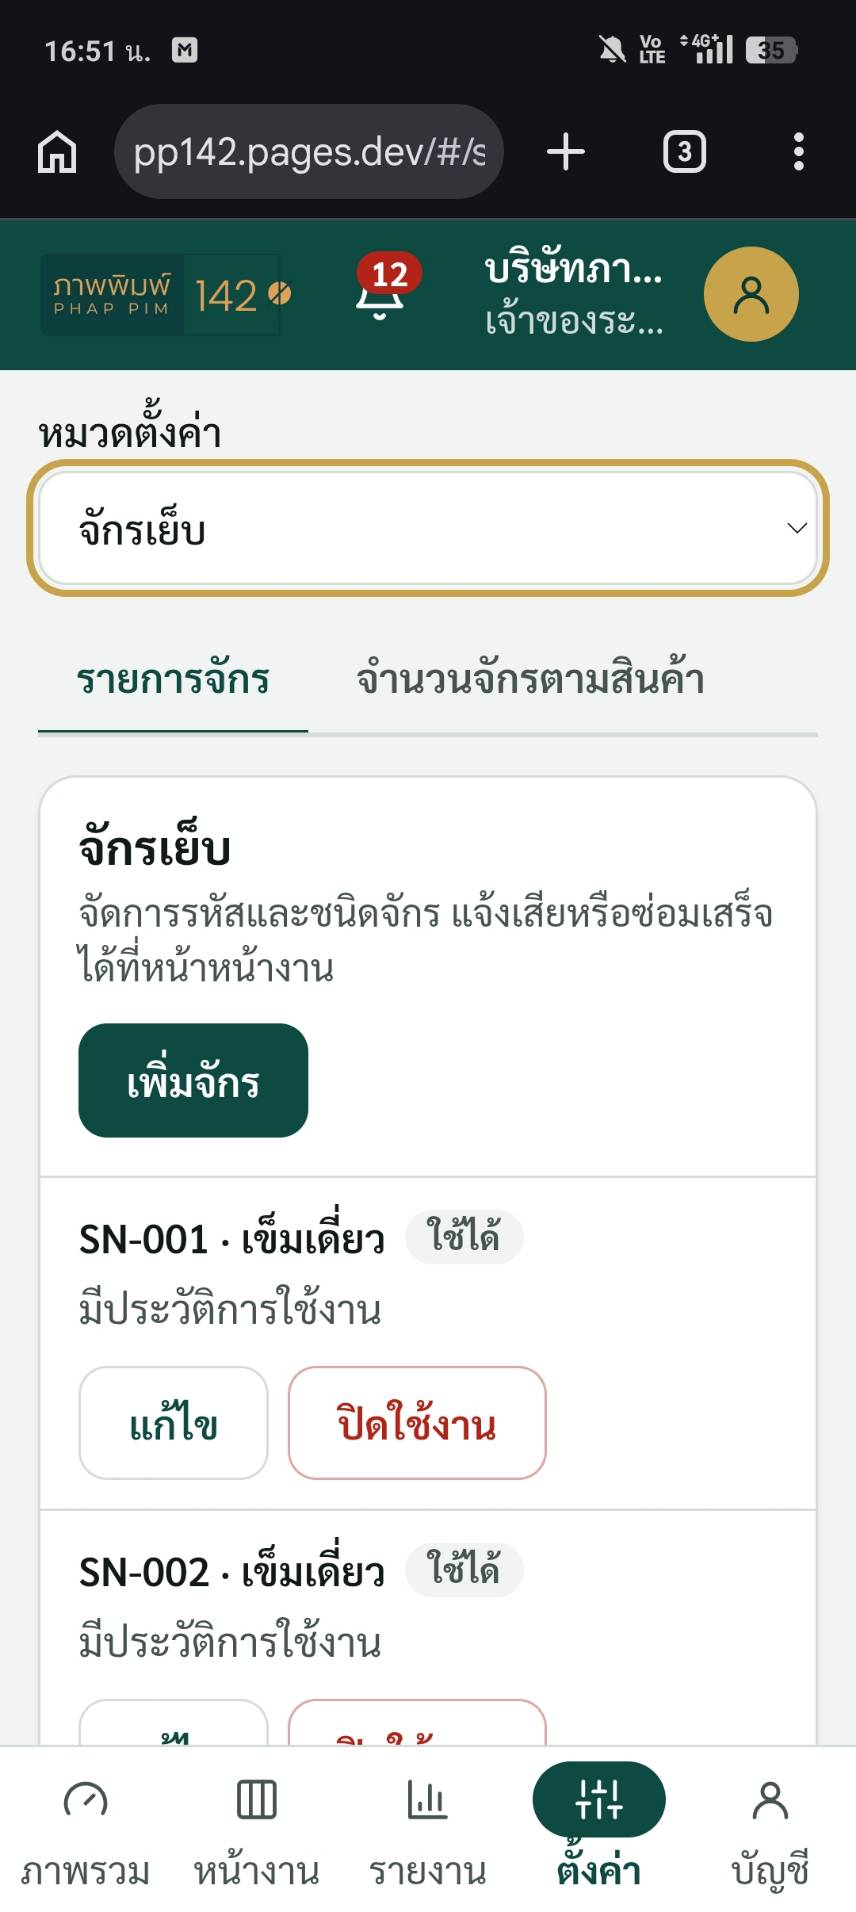
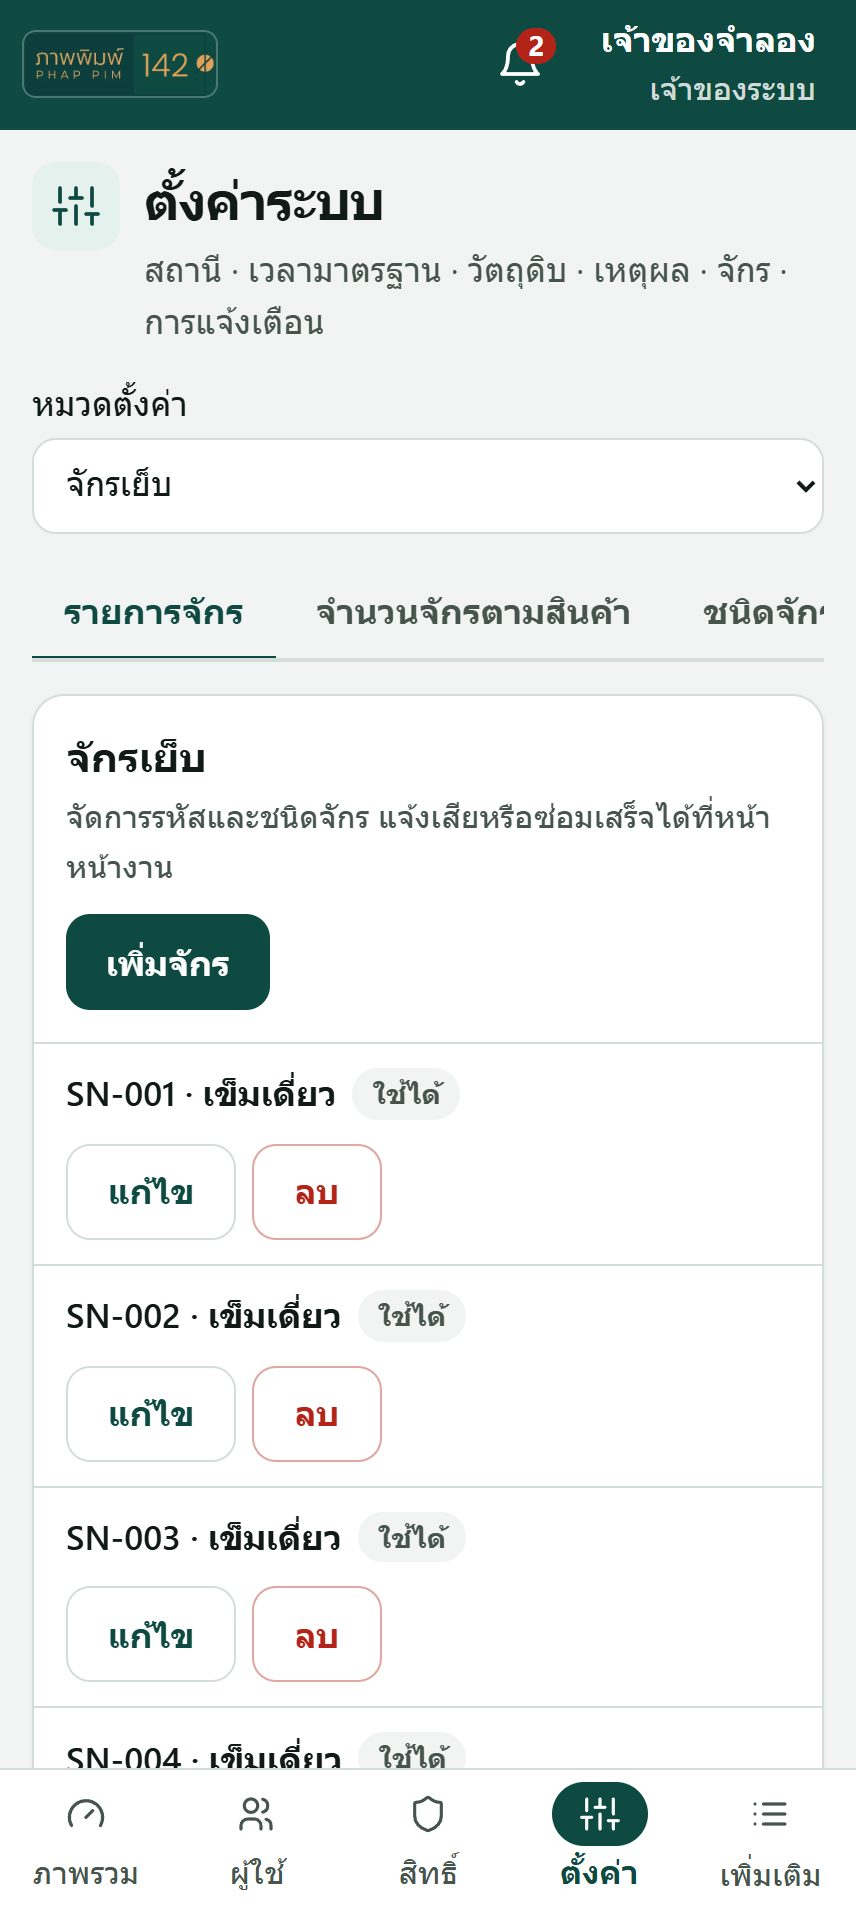
Manual screenshots: recapture 9 outdated images from the local stack
Images listed as outdated in QA round 14 (table 5.2): QC / production to-do,
admin overview and intake dialog, owner users and machines settings, station
panel in job detail, station queue doing / waiting. tools/manual-shots seeds
jobs across stations and captures them again (local stack only).

diff --git a/docs/ส่งต่องาน-Claude.md b/docs/ส่งต่องาน-Claude.md
@@ -29,7 +29,7 @@
 
 ## งานถัดไป
 0. **ภาษาพม่า (หัวข้อ "ภาษาพม่า" ด้านล่าง):** ครบ 3 ส่วนแล้ว (PR 164 · 165 · 172) · ถ้าคนงานแจ้งคำสลับ/คำแปลก ให้ถามคำจริงที่พูดกันแล้วแก้ใน `my.ts` · error ใหม่ที่ขึ้นไทยกลางจอ ให้เพิ่มแบบใน `i18n/dbErrors.ts`
-1. **ค้างจากรอบ 14:** ~~กล่องจุดชี้หน้าม็อคอัพโดนขอบบัง (B3-03)~~ แก้แล้ว (`boxAnchor` ใน `proto/annotation.ts` · กล่องบนจอกว้างอย่างน้อย 8rem) · **จับภาพคู่มือใหม่** ตามตาราง 5.2 ในรายงานรอบ 14 (ใช้ `tools/qa-r14` ในเครื่อง · ห้ามจับจากระบบจริง)
+1. **ค้างจากรอบ 14:** ~~กล่องจุดชี้หน้าม็อคอัพโดนขอบบัง (B3-03)~~ แก้แล้ว (`boxAnchor` ใน `proto/annotation.ts` · กล่องบนจอกว้างอย่างน้อย 8rem) · ~~จับภาพคู่มือใหม่ตามตาราง 5.2 รอบ 14~~ ทำแล้ว 9 ภาพ · จับซ้ำได้ด้วย `tools/manual-shots/` (`seed.mjs` แล้ว `capture.mjs` · build loopback ก่อน · ระบบจำลองเท่านั้น)
 2. **ใบยืนยัน รอเจ้าของตัดสิน:** ริสแบนด์ / สายคล้องคอ ใช้เทคนิค "ซับลิเมชั่น พิมพ์เต็มผืน" (สินค้าเป็นเส้น · ชื่อเทคนิคใช้ร่วมกับสินค้าผืน ถ้าเปลี่ยนชื่อให้เช็กว่าหน้าระบบอ่านชื่อเทคนิคหรือไม่) · เสื้อผ้า 16 แบบ + ถุงผ้า PDF ยาว 3 หน้า เพราะเงื่อนไข + ช่องเซ็นต้องอยู่หน้าเดียวกัน (`.close` ห้ามตัดหน้า)
 3. **เจ้าของยังค้าง:** จับคู่สถานี `staff6`–`staff10` · เปิด Leaked password protection · แยกรหัสผ่าน manager / admin / production · ดู Supabase → Database → Backups
 4. **ยังไม่ได้ลองบนระบบจริง:** ยกเลิกงาน (PR 139–140) · เส้นทางผลิตข้างนอก (PR 143) · อนุมัติม็อคอัพหลัง PR 150 · ฟอร์มใหม่ (ผ้าเพิ่ม · ลูกค้าส่งผ้ามาเอง · FS/PS · แพ็คใหม่) → รอทีมใช้งานจริง ถ้ามีปัญหาเจ้าของจะส่งภาพมา · **ห้ามสร้างงานทดสอบบนระบบจริง**

diff --git a/docs/คู่มือ/เจ้าของระบบ.md b/docs/คู่มือ/เจ้าของระบบ.md
@@ -57,7 +57,7 @@
 
 - **ผู้ใช้งาน**: แก้ชื่อ กำหนดบทบาท (`เจ้าของระบบ`, `แอดมิน`, `QC`, `ฝ่ายผลิต`, `ผู้บริหาร`) และเปิด/ปิดการใช้งานบัญชี *(การ **สร้างบัญชีใหม่** ทำใน **Supabase → Authentication → Add user** แล้วกลับมากำหนดบทบาทที่หน้านี้)*
 
-   <img src="img/owner-settings-users.jpg" alt="แท็บผู้ใช้และบทบาท" width="300">
+   <img src="img/owner-settings-users.jpg" alt="หน้าผู้ใช้งาน: บทบาทและสถานะเปิด/ปิดของแต่ละบัญชี" width="300">
 
 - **Station Assignment**: จับคู่พนักงานสถานีกับสถานีที่ทำงาน (บัญชีที่ยังไม่จับคู่เปิดหน้าสถานีไม่ได้)
 
